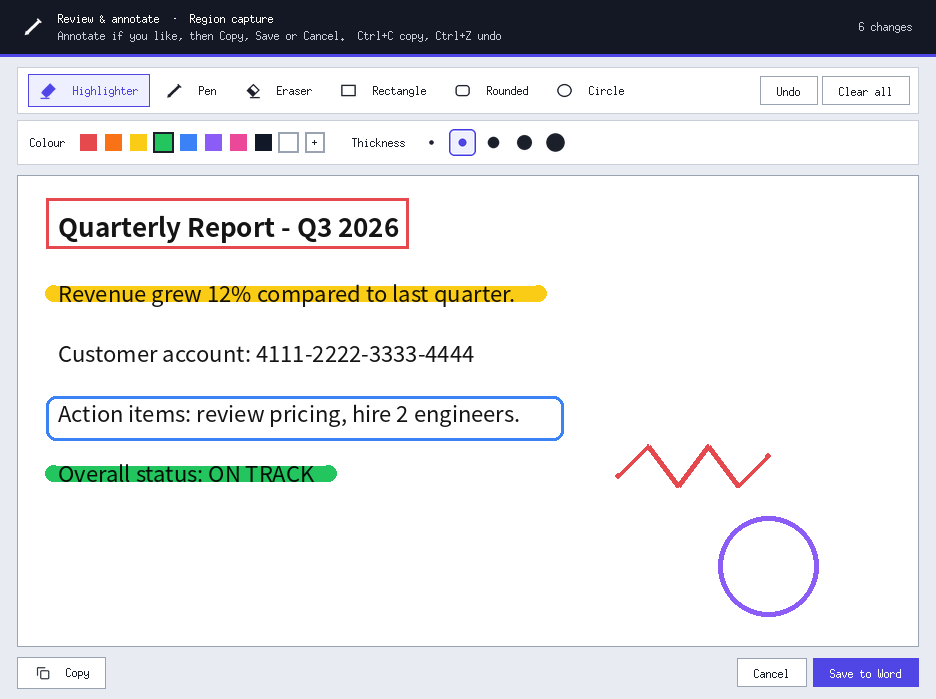
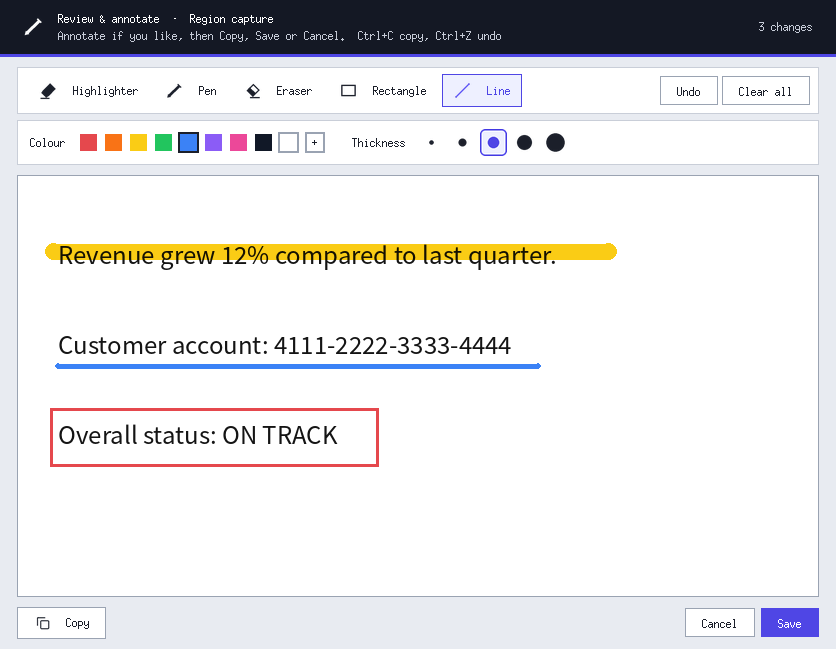
with straight line and asterisk symbol

diff --git a/main.py b/main.py
@@ -1415,12 +1415,13 @@ def copy_image_to_clipboard(image):
 
 class AnnotateEditor:
     """Review window shown after each capture: annotate the screenshot with
-    highlighter, pen and shapes, then Copy (clipboard), Save or Cancel.
+    highlighter, pen, rectangles and straight lines, then Copy (clipboard),
+    Save or Cancel.
 
     Tools (keyboard shortcut):
-      Highlighter (H)  Pen (P)  Rectangle (R)
-      Rounded rectangle (U)  Circle / ellipse (E)
-    Hold Shift while drawing a shape for a perfect square / circle.
+      Highlighter (H)  Pen (P)  Eraser (X)  Rectangle (R)  Line (L)
+    Hold Shift while drawing for a perfect square, or a line snapped to
+    horizontal / vertical / 45 degrees.
     Ctrl+Z undoes the last change, Enter saves, Esc cancels.
     """
 
@@ -1429,8 +1430,7 @@ class AnnotateEditor:
         ("pen", "Pen", "P"),
         ("eraser", "Eraser", "X"),
         ("rect", "Rectangle", "R"),
-        ("roundrect", "Rounded", "U"),
-        ("ellipse", "Circle", "E"),
+        ("line", "Line", "L"),
     ]
     COLORS = ["#E5484D", "#F97316", "#FACC15", "#22C55E", "#3B82F6",
               "#8B5CF6", "#EC4899", "#111827", "#FFFFFF"]
@@ -1451,8 +1451,7 @@ class AnnotateEditor:
             "pen": {"color": "#E5484D", "size": 1},
             "eraser": {"color": None, "size": 2},
             "rect": {"color": "#E5484D", "size": 1},
-            "roundrect": {"color": "#3B82F6", "size": 1},
-            "ellipse": {"color": "#E5484D", "size": 1},
+            "line": {"color": "#E5484D", "size": 1},
         }
 
         self.win = tk.Toplevel(root)
@@ -1662,7 +1661,7 @@ class AnnotateEditor:
 
     # Annotations are kept on transparent layers over the screenshot:
     #   highlight layer (multiplied onto the image, like a real marker),
-    #   ink layer (pen), shape layer (rectangles / circles, always on top).
+    #   ink layer (pen), shape layer (rectangles / lines, always on top).
     # The eraser clears pixels on the highlight and ink layers only, so it
     # removes pen and highlighter marks but never shapes or the screenshot.
 
@@ -1688,6 +1687,8 @@ class AnnotateEditor:
         elif kind == "eraser":
             for layer in (self.hl_layer, self.ink_layer):
                 draw_path(layer, op["points"], (0, 0, 0, 0), op["width"])
+        elif kind == "line":
+            draw_line(self.shape_layer, op["points"], op["color"], op["width"])
         else:
             draw_shape(self.shape_layer, kind, op["box"], op["color"], op["width"])
 
@@ -1732,9 +1733,22 @@ class AnnotateEditor:
         return self._clamp(self.canvas.canvasx(event.x), self.canvas.canvasy(event.y))
 
     def _shape_end(self, event):
-        """End point of a shape; Shift makes it a square / circle."""
+        """End point of a shape; Shift makes a square, or snaps a line
+        to horizontal / vertical / 45 degrees."""
         x, y = self._point(event)
-        if event.state & 0x0001 and self.tool in ("rect", "roundrect", "ellipse"):
+        if event.state & 0x0001 and self.tool == "line":
+            x0, y0 = self.drag_start
+            dx, dy = x - x0, y - y0
+            if abs(dx) > 2.414 * abs(dy):        # within 22.5 deg of horizontal
+                y = y0
+            elif abs(dy) > 2.414 * abs(dx):      # within 22.5 deg of vertical
+                x = x0
+            else:                                # diagonal
+                side = max(abs(dx), abs(dy))
+                x = x0 + side * (1 if dx >= 0 else -1)
+                y = y0 + side * (1 if dy >= 0 else -1)
+            x, y = self._clamp(x, y)
+        elif event.state & 0x0001 and self.tool == "rect":
             x0, y0 = self.drag_start
             side = max(abs(x - x0), abs(y - y0))
             x = x0 + side * (1 if x >= x0 else -1)
@@ -1787,19 +1801,12 @@ class AnnotateEditor:
         self._clear_preview()
         setting = self.settings[tool]
         width = self._screen_width()
-        if tool == "rect":
-            item = self.canvas.create_rectangle(x0, y0, x1, y1, outline=setting["color"], width=width)
-        elif tool == "ellipse":
-            item = self.canvas.create_oval(x0, y0, x1, y1, outline=setting["color"], width=width)
+        if tool == "line":
+            item = self.canvas.create_line(x0, y0, x1, y1, fill=setting["color"],
+                                           width=width, capstyle="round")
         else:
-            item = self.canvas.create_polygon(
-                rounded_rect_points(x0, y0, x1, y1, self._corner_radius(x0, y0, x1, y1, width)),
-                smooth=True, fill="", outline=setting["color"], width=width)
+            item = self.canvas.create_rectangle(x0, y0, x1, y1, outline=setting["color"], width=width)
         self.preview.append(item)
-
-    @staticmethod
-    def _corner_radius(x0, y0, x1, y1, width):
-        return min(max(10, width * 3), abs(x1 - x0) / 3, abs(y1 - y0) / 3)
 
     def _release(self, event):
         if self.drag_start is None:
@@ -1821,6 +1828,16 @@ class AnnotateEditor:
                 self.drag_start = None
                 self.stroke = []
                 return
+        elif tool == "line":
+            x0, y0 = self.drag_start
+            x1, y1 = self._shape_end(event)
+            self.drag_start = None
+            if abs(x1 - x0) + abs(y1 - y0) < 3:      # just a click
+                return
+            setting = self.settings[tool]
+            op = {"type": "line", "color": setting["color"],
+                  "width": max(1, round(self._screen_width() / s)),
+                  "points": [(x0 / s, y0 / s), (x1 / s, y1 / s)]}
         else:
             x0, y0 = self.drag_start
             x1, y1 = self._shape_end(event)
@@ -1899,14 +1916,6 @@ class AnnotateEditor:
                        if self.copied else "Screenshot discarded")
 
 
-def rounded_rect_points(x0, y0, x1, y1, r):
-    """Points for a smoothed Tk polygon that looks like a rounded rectangle."""
-    x0, x1 = min(x0, x1), max(x0, x1)
-    y0, y1 = min(y0, y1), max(y0, y1)
-    return [x0 + r, y0, x1 - r, y0, x1, y0, x1, y0 + r, x1, y1 - r, x1, y1,
-            x1 - r, y1, x0 + r, y1, x0, y1, x0, y1 - r, x0, y0 + r, x0, y0]
-
-
 def _hex_rgb(color):
     color = color.lstrip("#")
     return tuple(int(color[i:i + 2], 16) for i in (0, 2, 4))
@@ -1969,11 +1978,18 @@ def draw_shape(image, kind, box, color, width):
     x0, y0, x1, y1 = box
     if kind == "rect":
         d.rectangle(box, outline=rgb, width=width)
-    elif kind == "ellipse":
-        d.ellipse(box, outline=rgb, width=width)
-    elif kind == "roundrect":
-        radius = int(AnnotateEditor._corner_radius(x0, y0, x1, y1, width))
-        d.rounded_rectangle(box, radius=max(1, radius), outline=rgb, width=width)
+
+
+def draw_line(image, points, color, width):
+    """Straight line with round ends."""
+    d = ImageDraw.Draw(image)
+    rgb = _hex_rgb(color) + ((255,) if image.mode == "RGBA" else ())
+    (x0, y0), (x1, y1) = points
+    d.line([(x0, y0), (x1, y1)], fill=rgb, width=width)
+    if width > 2:
+        r = width / 2
+        for x, y in ((x0, y0), (x1, y1)):
+            d.ellipse([x - r, y - r, x + r, y + r], fill=rgb)
 
 
 SIZE_DOT_CACHE = {}
@@ -3629,11 +3645,11 @@ def draw_icon(kind, color, size, accent=RED):
     elif kind == "rect":
         d.rectangle(box(3, 5, 21, 19), outline=color, width=w)
 
-    elif kind == "roundrect":
-        d.rounded_rectangle(box(3, 5, 21, 19), radius=4.5 * u, outline=color, width=w)
-
-    elif kind == "ellipse":
-        d.ellipse(box(3, 4, 21, 20), outline=color, width=w)
+    elif kind == "line":
+        d.line([(4 * u, 20 * u), (20 * u, 4 * u)], fill=color, width=int(w * 1.3))
+        for x, y in ((4, 20), (20, 4)):
+            r = w * 0.65
+            d.ellipse([x * u - r, y * u - r, x * u + r, y * u + r], fill=color)
 
     elif kind == "fullpage":
         d.rounded_rectangle(box(5, 2, 19, 22), radius=2 * u, outline=color, width=w)
@@ -3877,12 +3893,15 @@ class Toggle(tk.Frame):
 class Card(tk.Frame):
     """White section card with a clear heading and optional badge."""
 
-    def __init__(self, parent, title, badge=None):
+    def __init__(self, parent, title, badge=None, required=False):
         super().__init__(parent, bg=CARD, highlightthickness=1, highlightbackground=BORDER)
         head = tk.Frame(self, bg=CARD)
         head.pack(fill="x", padx=S(20), pady=(S(11), S(8)))
         tk.Frame(head, bg=ACCENT, width=S(4), height=S(16)).pack(side="left", padx=(0, S(8)))
         tk.Label(head, text=title.upper(), font=F_SECTION, fg=TEXT, bg=CARD).pack(side="left")
+        if required:   # red asterisk = must be filled in
+            tk.Label(head, text="*", font=(F_SECTION[0], F_SECTION[1] + 3, "bold"),
+                     fg=RED, bg=CARD).pack(side="left", padx=(S(3), 0))
         self.badge = tk.Label(head, font=F_SECTION, bg=ACCENT_SOFT, fg=ACCENT, padx=S(8), pady=S(1))
         if badge:
             self.set_badge(badge)
@@ -3953,7 +3972,7 @@ content.pack(fill="both", padx=S(24), pady=(S(16), S(4)))
 # Save Location Card
 # ============================================================
 
-folder_card = Card(content, "Save location")
+folder_card = Card(content, "Save location", required=True)
 folder_card.pack(fill="x", pady=(0, S(12)))
 
 entry_row = tk.Frame(folder_card.body, bg=CARD)
@@ -4116,7 +4135,8 @@ if not RECORDING_AVAILABLE:
 status_bar = tk.Frame(main_frame, bg=CARD, highlightthickness=1, highlightbackground=BORDER)
 status_bar.pack(fill="x", side="bottom")
 
-status_dot = tk.Label(status_bar, bg=CARD)
+status_dot = tk.Label(status_bar, bg=CARD, fg=RED, bd=0, padx=0, pady=0,
+                      font=(F_BODY[0], F_BODY[1] + 3, "bold"))
 status_dot.pack(side="left", anchor="n", padx=(S(16), S(8)), pady=(S(13), 0))
 
 status_label = tk.Label(
@@ -4136,6 +4156,13 @@ def update_status_dot(*args):
     """Colour the status dot by message type: green = done,
     amber = busy or needs attention, red = problem, indigo = info."""
     text = status_var.get().strip().lower()
+    if text.startswith(("choose a folder", "no save folder")):
+        # the save folder is mandatory - mark it with a red asterisk
+        status_dot.configure(image="", text="*")
+        status_dot.pack_configure(anchor="center", pady=0)
+        return
+    status_dot.configure(text="")
+    status_dot.pack_configure(anchor="n", pady=(S(13), 0))
     if (text.startswith(("recording failed", "could not", "error"))
             or "cancelled" in text or "too small" in text):
         color = RED

diff --git a/USER_MANUAL.md b/USER_MANUAL.md
@@ -94,7 +94,7 @@ The window opens in the middle of the screen you're working on, and is made up o
 
 | Section | What it's for |
 |---|---|
-| **Save location** | The folder where screenshots, recordings and text files are saved |
+| **Save location** <span style="color:#E5484D">\*</span> *(required)* | The folder where screenshots, recordings and text files are saved. The red asterisk means you must choose one before capturing or recording. |
 | **Word document** *(optional)* | A `.docx` that screenshots are added to automatically |
 | **Screenshot & text** | Capture Screen, Capture Region, Full Page, Extract Text, and the blur option |
 | **Screen recording** | Record the whole screen or a region, with sound |
@@ -109,6 +109,8 @@ The window opens in the middle of the screen you're working on, and is made up o
 ---
 
 ## 4. Save location
+
+This is the only **required** setting, marked with a red asterisk (**\***). Until a folder is chosen, the status bar also shows a red asterisk next to "Choose a folder to save screenshots and recordings."
 
 1. Click **Browse** and choose a folder, or type a path into the box.
 2. If the folder doesn't exist, the app offers to create it.
@@ -260,16 +262,15 @@ Annotating is optional; you can just click Copy or Save straight away.
 |---|---|---|
 | **Highlighter** | H | Drag over text, like a real marker. The text stays dark and readable. |
 | **Pen** | P | Draw or write freehand |
-| **Eraser** | X | Drag over pen or highlighter marks to rub them out, fully or partly. Rectangles, circles and the screenshot itself are never erased. |
+| **Eraser** | X | Drag over pen or highlighter marks to rub them out, fully or partly. Rectangles, lines and the screenshot itself are never erased. |
 | **Rectangle** | R | Drag to draw a box |
-| **Rounded** | U | Drag to draw a box with rounded corners |
-| **Circle** | E | Drag to draw a circle or ellipse |
+| **Line** | L | Drag from one end to the other to draw a straight line. Pick the thickness from the five sizes. |
 
 **Options:**
 - **Colour:** nine preset colours, or **+** for any colour.
 - **Thickness:** five sizes, shown as dots. The highlighter and eraser have their own, wider set of sizes. The eraser has no colour, so the colour row is hidden while it's selected.
 - **Remembered settings:** each tool remembers its own colour and thickness, so the highlighter can stay yellow while the pen stays red.
-- **Shift:** hold it while drawing a rectangle or circle for a **perfect square or circle**.
+- **Shift:** hold it while drawing a rectangle for a **perfect square**, or while drawing a line to keep it **perfectly horizontal, vertical or at 45°**.
 - **Undo / Clear:** **Undo** (Ctrl+Z) removes the last change, and **Clear all** removes everything.
 
 **Quick recipes:**
@@ -340,8 +341,8 @@ In the **Blur** and **Review** windows:
 | **Ctrl+Z** | Undo |
 | **Enter** | Save |
 | **Esc** | Cancel |
-| **H / P / X / R / U / E** | Review window tools: Highlighter / Pen / Eraser / Rectangle / Rounded / Circle |
-| **Shift** (while drawing) | Perfect square / circle |
+| **H / P / X / R / L** | Review window tools: Highlighter / Pen / Eraser / Rectangle / Line |
+| **Shift** (while drawing) | Perfect square, or a straight horizontal / vertical / 45° line |
 
 ---
 
